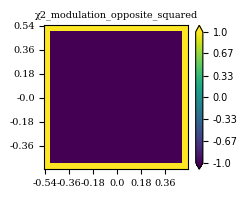
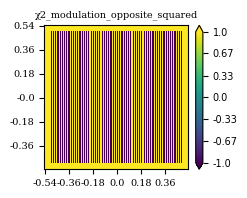
更新 Find_energy_Dropto_fraction

Changed region(s): [[0.1984, 0.1515, 0.7368, 0.8182]]

diff --git a/Test == a_to_B_3_NLA_SSI.py b/Test == a_to_B_3_NLA_SSI.py
@@ -227,7 +227,7 @@ a_to_B_3_NLA_SSI(U1_name_Structure = "",
                  is_phase_only_Structure = 0, 
                  #%%
                  z_pump_Structure = 0, 
-                 is_LG_Structure = 0, is_Gauss_Structure = 0, is_OAM_Structure = 1, 
+                 is_LG_Structure = 0, is_Gauss_Structure = 1, is_OAM_Structure = 0, 
                  l_Structure = 0, p_Structure = 0, 
                  theta_x_Structure = 0, theta_y_Structure = 0, 
                  is_H_l_Structure = 0, is_H_theta_Structure = 0, 
@@ -237,14 +237,14 @@ a_to_B_3_NLA_SSI(U1_name_Structure = "",
                  is_phase_only = 0, 
                  #%%
                  z_pump = 0, 
-                 is_LG = 0, is_Gauss = 0, is_OAM = 0, 
+                 is_LG = 0, is_Gauss = 1, is_OAM = 1, 
                  l = 0, p = 0, 
                  theta_x = 0, theta_y = 0, 
                  is_H_l = 0, is_H_theta = 0, 
                  #%%---------------------------------------------------------------------
                  #%%
-                 U1_0_NonZero_size = 0.9, w0 = 0, w0_Structure = 0, structure_size_Enlarge = 0.1, 
-                 L0_Crystal = 0.3184428647340581, z0_structure_frontface_expect = 0, deff_structure_length_expect = 0.5, 
+                 U1_0_NonZero_size = 0.9, w0 = 0.3, w0_Structure = 0, structure_size_Enlarge = 0.1, 
+                 L0_Crystal = 1, z0_structure_frontface_expect = 0, deff_structure_length_expect = 0.5, 
                  deff_structure_sheet_expect = 1, sheets_stored_num = 10, 
                  z0_section_1f_expect = 0, z0_section_2f_expect = 0, X = 0, Y = 0, 
                  Duty_Cycle_x = 0.5, Duty_Cycle_y = 0.5, Duty_Cycle_z = 0.5, structure_xy_mode = 'x', Depth = 2, 
@@ -254,10 +254,10 @@ a_to_B_3_NLA_SSI(U1_name_Structure = "",
                  is_bulk = 0, is_no_backgroud = 0, 
                  is_stored = 0, is_show_structure_face = 0, is_energy_evolution_on = 1, 
                  #%%
-                 lam1 = 1, is_air_pump = 0, is_air = 0, T = 25, 
+                 lam1 = 1.064, is_air_pump = 0, is_air = 0, T = 25, 
                  deff = 30, 
-                 Tx = 12.795, Ty = 20, Tz = 5.752, 
-                 mx = 0, my = 0, mz = 1, 
+                 Tx = 13.703, Ty = 20, Tz = 7, 
+                 mx = -1, my = 0, mz = 1, 
                  #%%
                  is_save = 1, is_save_txt = 0, dpi = 100, 
                  #%%
@@ -278,4 +278,4 @@ a_to_B_3_NLA_SSI(U1_name_Structure = "",
                  is_self_colorbar = 0, is_colorbar_on = 1, 
                  is_energy = 0, vmax = 1, vmin = 0, 
                  #%%
-                 is_print = 1, is_contours = 1, n_TzQ = 1, Gz_max_Enhance = 1, match_mode = 1, )
+                 is_print = 1, is_contours = 66, n_TzQ = 1, Gz_max_Enhance = 1, match_mode = 1, )

diff --git a/idea == interference_AST__AST.py b/idea == interference_AST__AST.py
@@ -384,8 +384,8 @@ interference_AST__AST  (U1_name = "",
                         theta_x = 0, theta_y = 0, 
                         is_H_l = 0, is_H_theta = 0, 
                         #%%
-                        U1_0_NonZero_size = 1, w0 = 0.5, # 传递函数 是 等倾干涉图...
-                        z0 = 0, z0_delay_expect = 1, #  z0 越大，描边能量不变，但会越糊；z0_delay_expect 越大，描边 能量越高，但也越糊
+                        U1_0_NonZero_size = 1, w0 = 0, # 传递函数 是 等倾干涉图...
+                        z0 = 0, z0_delay_expect = 0, #  z0 越大，描边能量不变，但会越糊；z0_delay_expect 越大，描边 能量越高，但也越糊
                         #%%
                         lam1 = 1, is_air_pump = 0, is_air = 0, T = 25, 
                         #%%

diff --git a/A_3_Structure_Generate_NLC.py b/A_3_Structure_Generate_NLC.py
@@ -159,7 +159,7 @@ def structure_NLC(U1_name = "",
     border_width, img_squared_resize_full_name, img_squared_resize = img_squared_Resize(img_name, img_name_extension, img_squared, 
                                                                                         Ix, Iy, I1_x, 
                                                                                         is_print, )
-
+    
     if (type(U1_name) != str) or U1_name == "":
         #%%
         # U1_0 = U(x, y, 0) = img_squared_resize
